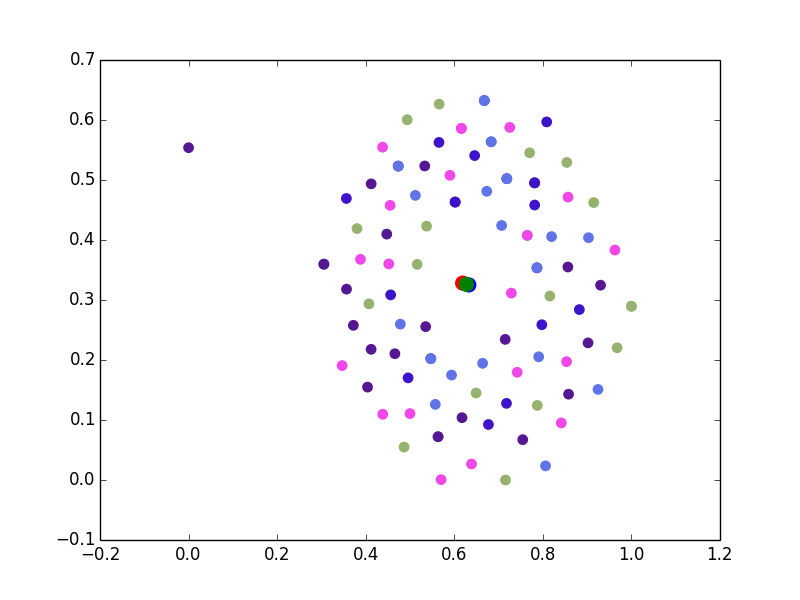
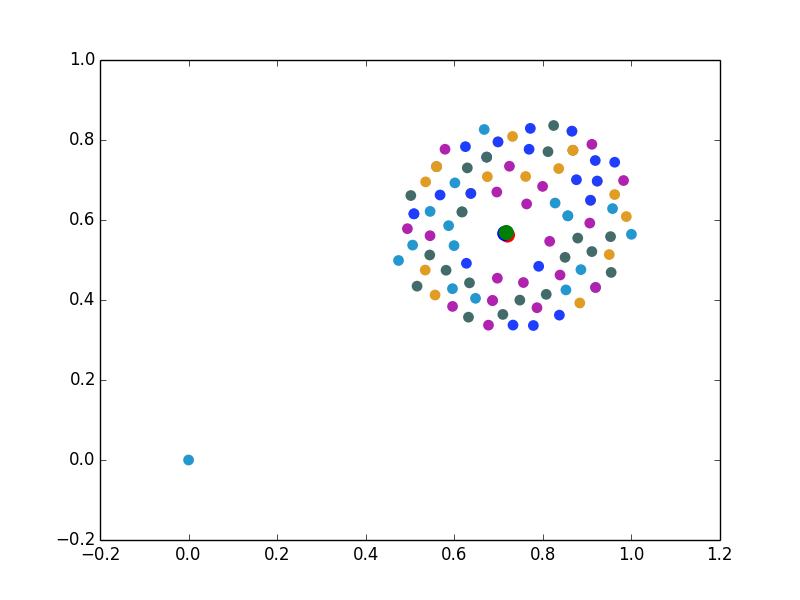
fix a bug: for edge weigth it was used similarity. however this wasn't correct since we wanted small number of weigth to represent how close are nodes (top senses) are

diff --git a/commands/top_senses_tables.py b/commands/top_senses_tables.py
@@ -132,11 +132,11 @@ def create_graphs(doc_list):
         documents = default_document_list()
 
     distance_functions = [
-        ('lch', lambda sense_1, sense_2: wn.lch_similarity(sense_1, sense_2)),
-        ('lin', lambda sense_1, sense_2: wn.lin_similarity(sense_1, sense_2, CORPUS)),
-        ('res', lambda sense_1, sense_2: wn.res_similarity(sense_1, sense_2, CORPUS)),
-        ('jcn', lambda sense_1, sense_2: wn.jcn_similarity(sense_1, sense_2, CORPUS)),
-        ('path', lambda sense_1, sense_2: wn.path_similarity(sense_1, sense_2)),
+        (wn.lch_similarity(SYNSETS[0], SYNSETS[0]), 'lch', lambda sense_1, sense_2: wn.lch_similarity(sense_1, sense_2)),
+        (1.0, 'lin', lambda sense_1, sense_2: wn.lin_similarity(sense_1, sense_2, CORPUS)),
+        (10.636958516573292, 'res', lambda sense_1, sense_2: wn.res_similarity(sense_1, sense_2, CORPUS)),
+        (wn.jcn_similarity(SYNSETS[0], SYNSETS[0], CORPUS), 'jcn', lambda sense_1, sense_2: wn.jcn_similarity(sense_1, sense_2, CORPUS)),
+        (1.0, 'path', lambda sense_1, sense_2: wn.path_similarity(sense_1, sense_2)),
     ]
     all_senses = []
     for doc in documents:
@@ -162,7 +162,7 @@ def create_against_graph(file_prefix, documents, all_senses, against_to, distanc
         #this is used for give colors that corresponds to each document
         doc_senses[doc_name].append(sense.name)
 
-    for function_name, distance_function in distance_functions:
+    for max_value, function_name, distance_function in distance_functions:
         G = nx.Graph()
         for sense, doc_name in all_senses:
             G.add_node(sense.name)
@@ -172,7 +172,7 @@ def create_against_graph(file_prefix, documents, all_senses, against_to, distanc
         for sense_1, doc_name in all_senses:
             for sense_2 in against_to:
                 if sense_1 != sense_2:
-                    G.add_edge(sense_1.name, sense_2.name, weight=distance_function(sense_1, sense_2))
+                    G.add_edge(sense_1.name, sense_2.name, weight=max_value - distance_function(sense_1, sense_2))
 
         pos = nx.spring_layout(G, iterations=50)
         # lets put the colors for each doc
@@ -195,7 +195,7 @@ def create_graph_top_senses(documents, all_senses, distance_functions):
     for sense, doc_name in all_senses:
         doc_senses[doc_name].append(sense.name)
 
-    for function_name, distance_function in distance_functions:
+    for max_value, function_name, distance_function in distance_functions:
         G = nx.Graph()
         for sense, doc_name in all_senses:
             G.add_node(sense.name)
@@ -204,7 +204,7 @@ def create_graph_top_senses(documents, all_senses, distance_functions):
         for sense_1, doc_name in all_senses:
             for sense_2, doc_name in all_senses:
                 if sense_1 != sense_2:
-                    G.add_edge(sense_1.name, sense_2.name, weight=distance_function(sense_1, sense_2))
+                    G.add_edge(sense_1.name, sense_2.name, weight=max_value - distance_function(sense_1, sense_2))
 
         pos = nx.spring_layout(G, iterations=50)
         colors = [(random(), random(), random()) for _i in range(0, len(doc_senses.keys()))]
